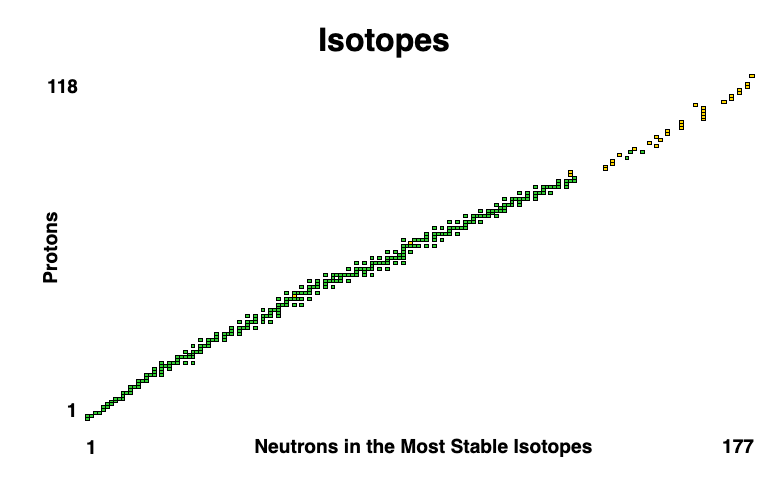
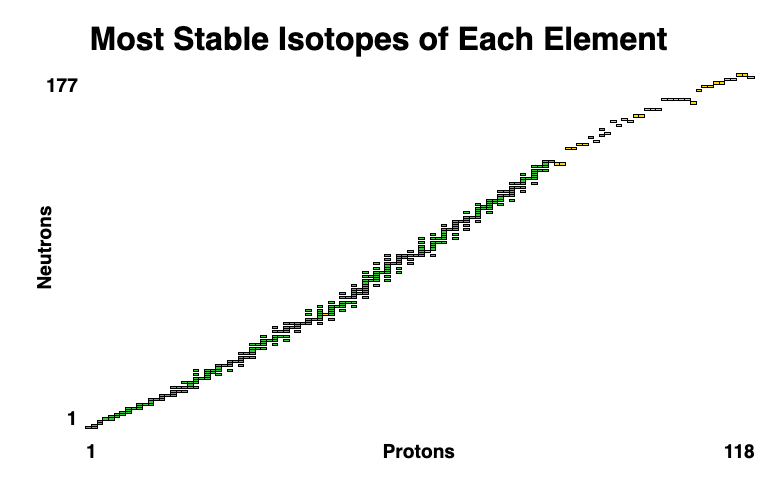
Graph protons along the x-axis of the isotopes.

diff --git a/client/index.js b/client/index.js
@@ -2794,33 +2794,33 @@ class Isotopes {
 
         document.title = "Isotopes";
 
-        let html = `<h1>${document.title}</h1>`;
+        let html = `<h1>Most Stable Isotopes of Each Element</h1>`;
         html += '<table class="isotopes">';
 
-        for (let protons = 118; protons >= 0; protons--) {
-            const element = Elements.data[protons];
+        for (let neutrons = 177; neutrons >= 0; neutrons--) {
+            neutrons = parseInt(neutrons);
             html += '<tr>';
 
-            if (protons === 118) {
-                html += '<th class="y-axis max" rowspan="39">118</th>';
+            if (neutrons === 177) {
+                html += '<th class="y-axis max" rowspan="19">177</th>';
             }
-            else if (protons === 79) {
-                html += '<th class="y-axis label" rowspan="40">Protons</th>';
+            else if (neutrons === 158) {
+                html += '<th class="y-axis label" rowspan="139">Neutrons</th>';
             }
-            else if (protons === 39) {
-                html += '<th class="y-axis min" rowspan="39">1</th>';
+            else if (neutrons === 19) {
+                html += '<th class="y-axis min" rowspan="19">1</th>';
             }
-            else if (protons === 0) {
+            else if (neutrons === 0) {
                 html += `<th class="empty"></th>`;
                 html += '<th class="x-axis min" colspan="19">1</th>';
-                html += '<th class="x-axis label" colspan="139">Neutrons in the Most Stable Isotopes</th>';
-                html += '<th class="x-axis max" colspan="19">177</th>';
+                html += '<th class="x-axis label" colspan="80">Protons</th>';
+                html += '<th class="x-axis max" colspan="19">118</th>';
                 continue;
             }
 
-            for (let neutrons = 1; neutrons < 177; neutrons++) {
+            for (let protons = 1; protons < 119; protons++) {
                 const elements = all[neutrons];
-                neutrons = parseInt(neutrons);
+                const element = Elements.data[protons];
                 let title = `${element.symbol}: ${element.name}\nProtons: ${protons}`;
                 if (!(neutrons in all) || elements.indexOf(protons) === -1) {
                     html += `<td class="empty" title="${title}"></td>`;

diff --git a/client/main.css b/client/main.css
@@ -182,8 +182,8 @@ td.empty {
     padding: 0;
 }
 .isotopes td {
-    height: calc((81vh - 10rem) / 118);
-    width: calc((96vw - 6rem) / 177);
+    height: calc((81vh - 12rem) / 177);
+    width: calc((96vw - 6rem) / 118);
 }
 .isotopes th {
     font-size: 1.2rem;
